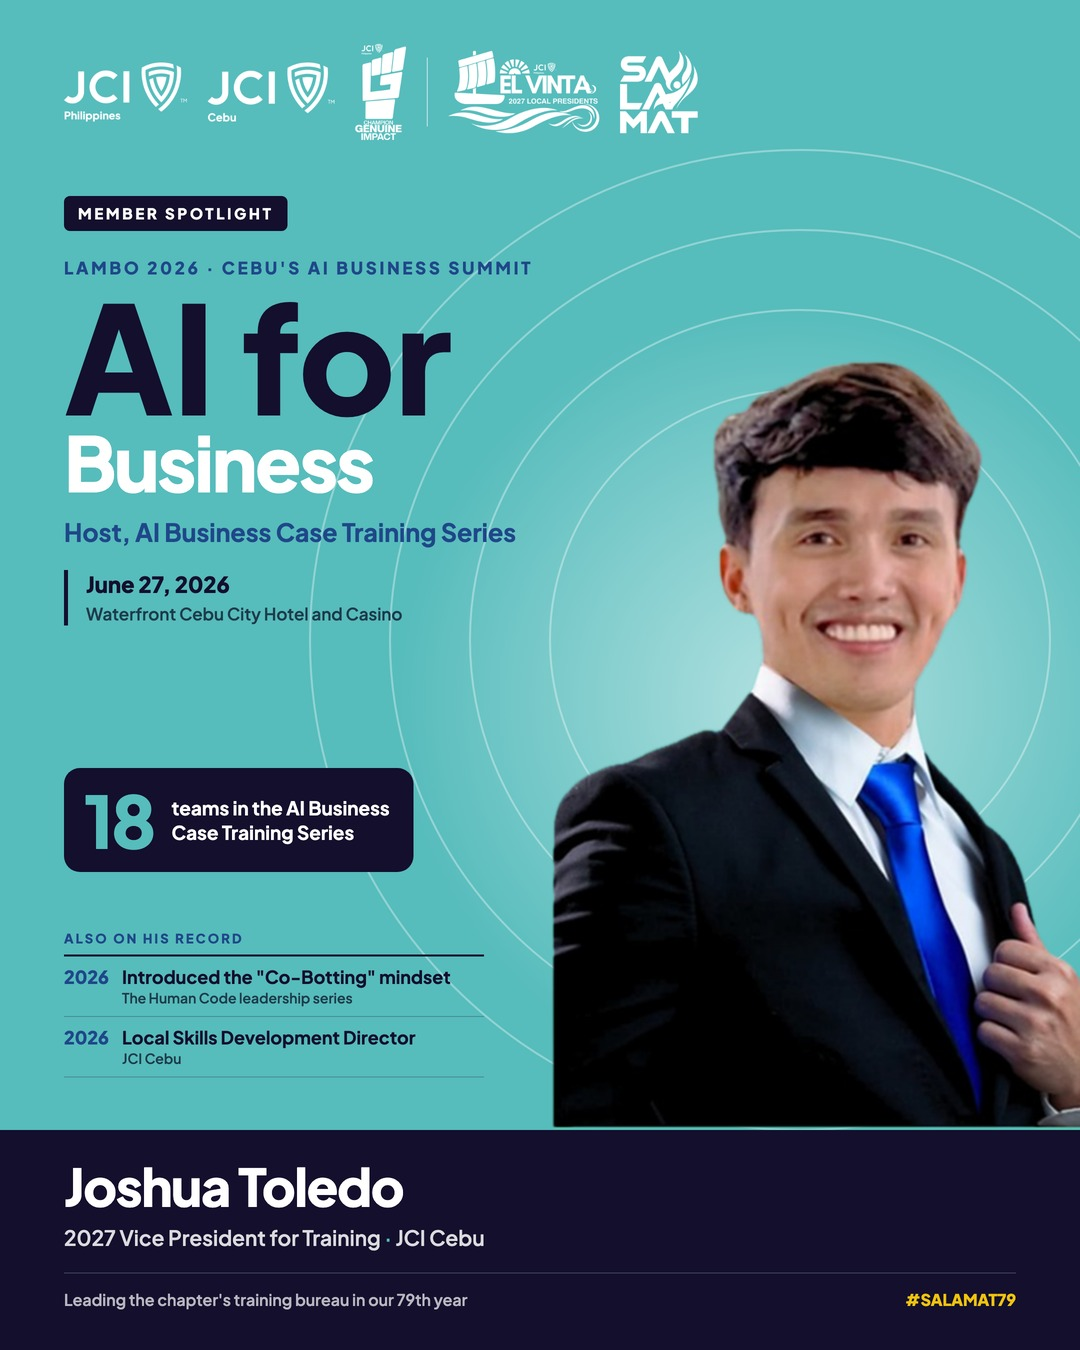
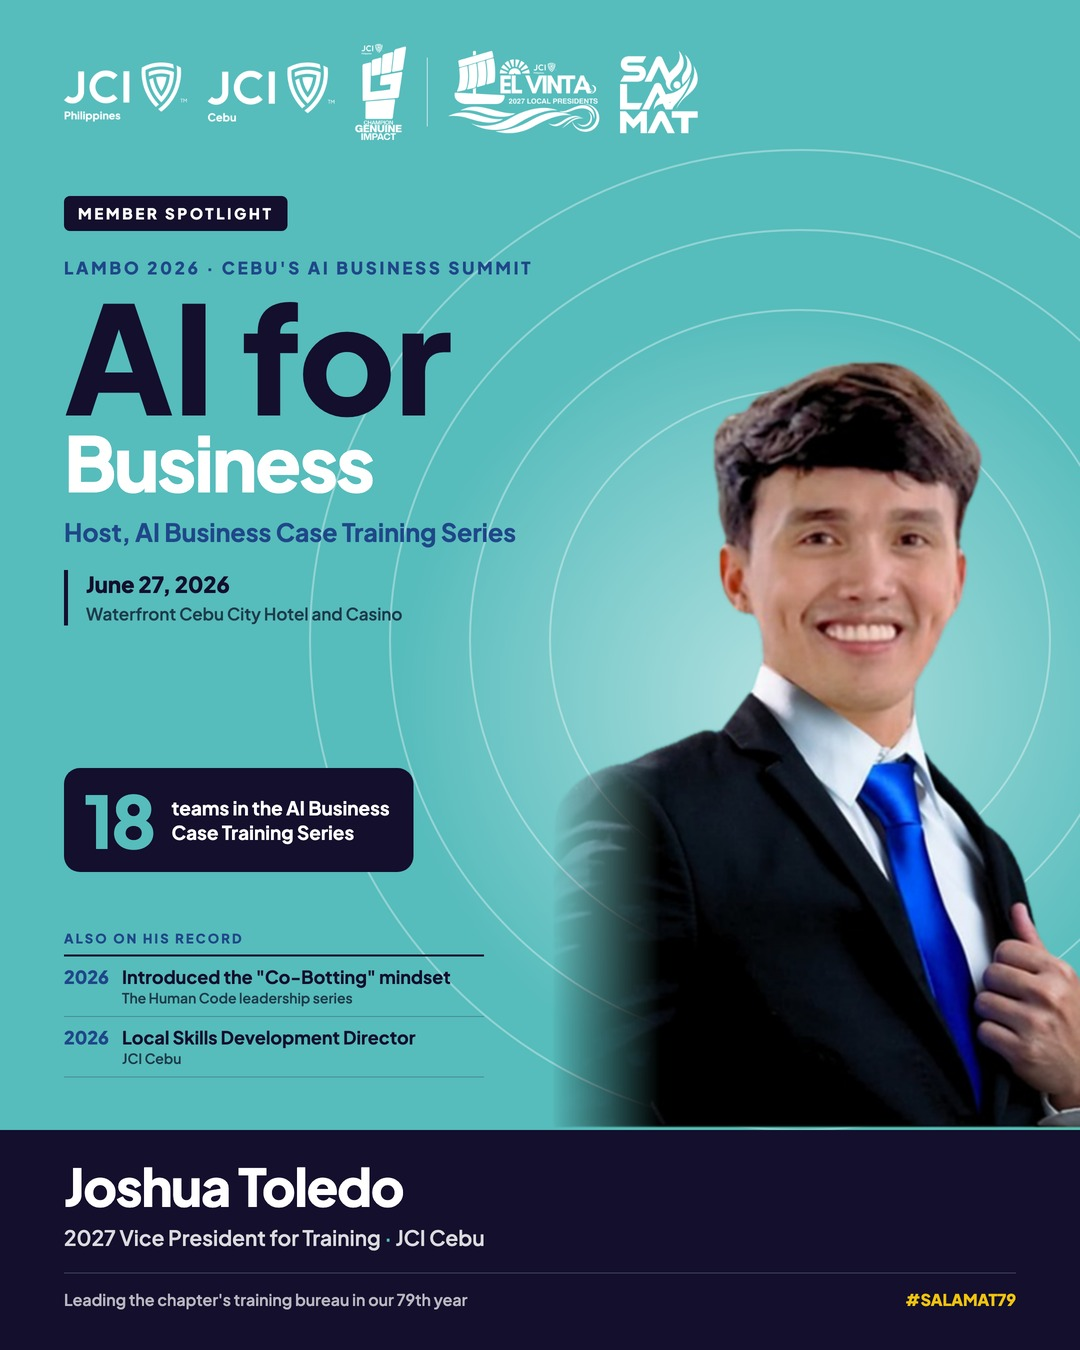
Soften cutout edges on Joshua and Niño Jan

Changed region(s): [[0.4889, 0.56, 0.6111, 0.84]]

diff --git a/index.html b/index.html
@@ -233,8 +233,8 @@ Congratulations, Pidot. JCI Cebu is proud of you.
   </div>
 </article>
 <article class="card" id="joshua-toledo">
-  <a class="shot" href="img/jci-cebu-joshua-toledo.jpg?v=1794117371" target="_blank" rel="noopener">
-    <img src="img/jci-cebu-joshua-toledo.jpg?v=1794117371" alt="Spotlight pubmat for Joshua Toledo" width="1080" height="1350" loading="lazy">
+  <a class="shot" href="img/jci-cebu-joshua-toledo.jpg?v=1794117388" target="_blank" rel="noopener">
+    <img src="img/jci-cebu-joshua-toledo.jpg?v=1794117388" alt="Spotlight pubmat for Joshua Toledo" width="1080" height="1350" loading="lazy">
   </a>
   <div class="body">
     <div class="meta"><span class="st st-draft">draft</span></div>
@@ -242,7 +242,7 @@ Congratulations, Pidot. JCI Cebu is proud of you.
     <p class="role">2027 Vice President for Training</p>
     
     <div class="actions">
-      <a class="btn primary" href="img/jci-cebu-joshua-toledo.jpg?v=1794117371" download="jci-cebu-joshua-toledo.jpg">Download image</a>
+      <a class="btn primary" href="img/jci-cebu-joshua-toledo.jpg?v=1794117388" download="jci-cebu-joshua-toledo.jpg">Download image</a>
       <button class="btn" data-copy="fb-4">Copy FB caption</button>
       <button class="btn" data-copy="ig-4">Copy IG caption</button>
     </div>
@@ -323,8 +323,8 @@ Portfolio: jalegarbes.netlify.app (link in bio)
   </div>
 </article>
 <article class="card" id="nino-jan-miole">
-  <a class="shot" href="img/jci-cebu-nino-jan-miole.jpg?v=1794117339" target="_blank" rel="noopener">
-    <img src="img/jci-cebu-nino-jan-miole.jpg?v=1794117339" alt="Spotlight pubmat for Niño Jan V. Miole" width="1080" height="1350" loading="lazy">
+  <a class="shot" href="img/jci-cebu-nino-jan-miole.jpg?v=1794117387" target="_blank" rel="noopener">
+    <img src="img/jci-cebu-nino-jan-miole.jpg?v=1794117387" alt="Spotlight pubmat for Niño Jan V. Miole" width="1080" height="1350" loading="lazy">
   </a>
   <div class="body">
     <div class="meta"><span class="st st-draft">draft</span></div>
@@ -332,7 +332,7 @@ Portfolio: jalegarbes.netlify.app (link in bio)
     <p class="role">2027 Vice President for Communications</p>
     
     <div class="actions">
-      <a class="btn primary" href="img/jci-cebu-nino-jan-miole.jpg?v=1794117339" download="jci-cebu-nino-jan-miole.jpg">Download image</a>
+      <a class="btn primary" href="img/jci-cebu-nino-jan-miole.jpg?v=1794117387" download="jci-cebu-nino-jan-miole.jpg">Download image</a>
       <button class="btn" data-copy="fb-6">Copy FB caption</button>
       <button class="btn" data-copy="ig-6">Copy IG caption</button>
     </div>
